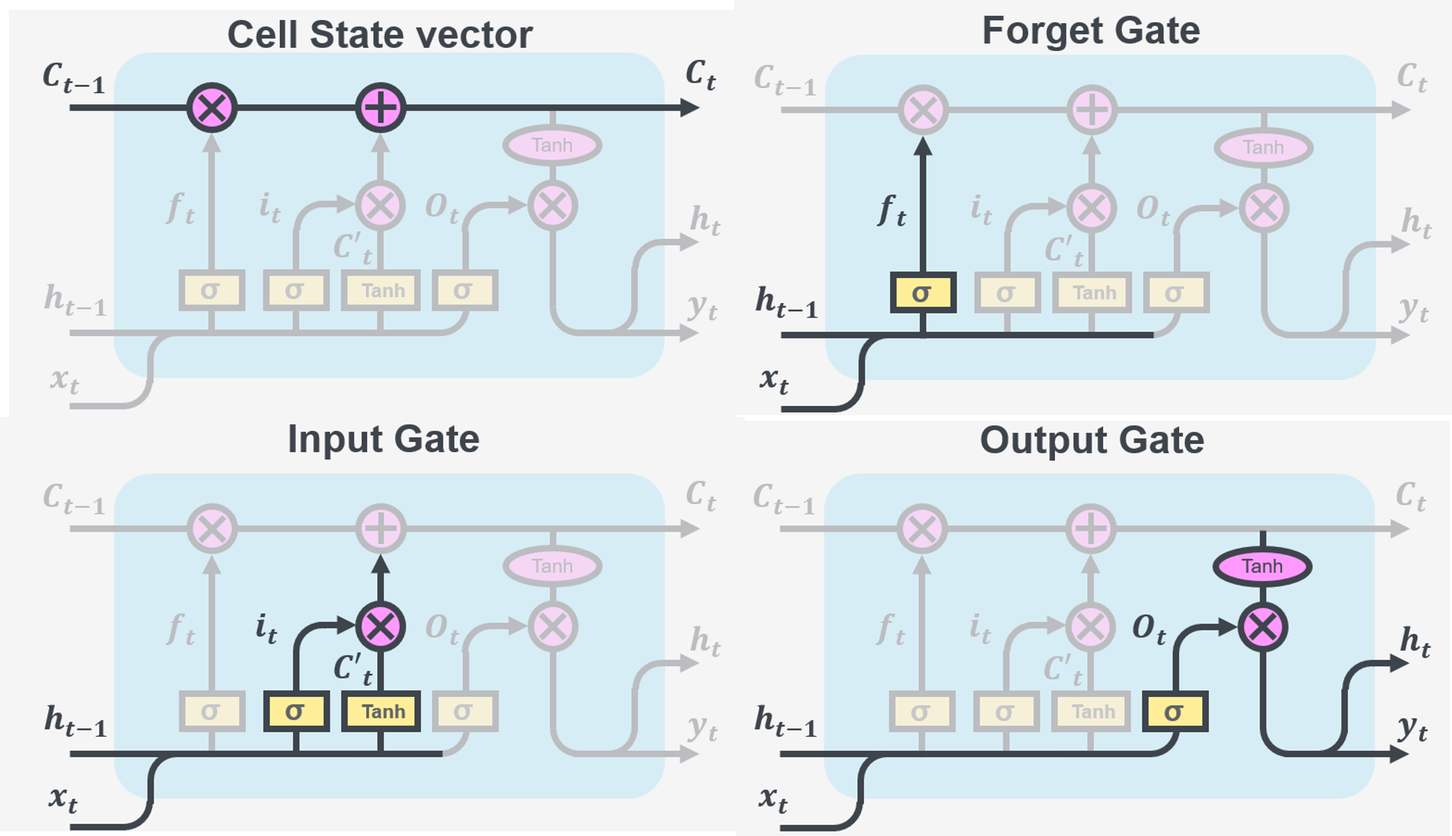
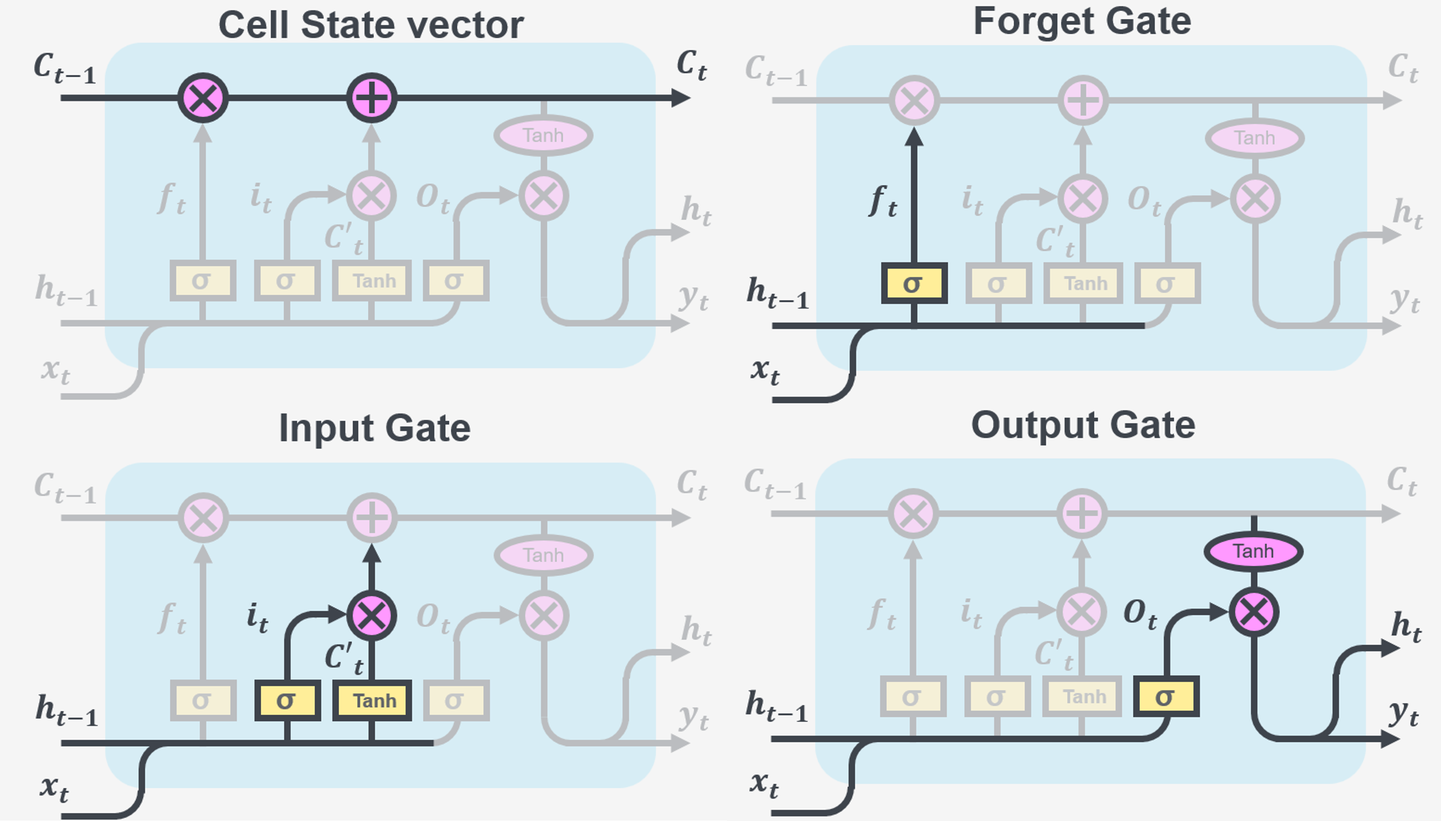
<spellcheck final adds>

diff --git a/_layouts/single.html b/_layouts/single.html
@@ -14,15 +14,17 @@ layout: default
   {% endunless %}
 {% endif %}
 
+
+
 <div id="main" role="main">
   {% include sidebar.html %}
-
+  
   <article class="page" itemscope itemtype="http://schema.org/CreativeWork">
     {% if page.title %}<meta itemprop="headline" content="{{ page.title | markdownify | strip_html | strip_newlines | escape_once }}">{% endif %}
     {% if page.excerpt %}<meta itemprop="description" content="{{ page.excerpt | markdownify | strip_html | strip_newlines | escape_once }}">{% endif %}
     {% if page.date %}<meta itemprop="datePublished" content="{{ page.date | date: "%B %d, %Y" }}">{% endif %}
     {% if page.modified %}<meta itemprop="dateModified" content="{{ page.modified | date: "%B %d, %Y" }}">{% endif %}
-
+    
     <div class="page__inner-wrap">
       {% unless page.header.overlay_color or page.header.overlay_image %}
         <header>

diff --git a/_posts/2012-08-14-blog-post-1.md b/_posts/2012-08-14-blog-post-1.md
@@ -1,32 +1,33 @@
 ---
-title: 'A Long Short-Term Memory Network for Plasma Diagnosis from Langmuir Probe Data'
+title: 'A Review: A Long Short-Term Memory Network for Plasma Diagnosis from Langmuir Probe Data'
 date: 2022-11-03
 permalink: /posts/2022/11/LSTM-NN-Langmuir/
 layout: single
 tags:
-  - Fusion Plamsa
+  - Fusion Plasma
   - Langmuir Probes
   - Machine Learning
 toc: true
-toc_label: "My Table of Contents"
-toc_icon: "cog"
+toclabel: "My Table of Contents"
+tocicon: "cog"
 toc_stickey: true
 ---
 
 # Introduction
 
-Welcome to my latest blog post where we will be discussing the recent paper "A Long Short-Term Memory Network for Plasma Diagnosis from Langmuir Probe Data", found [Here](https://www.mdpi.com/1424-8220/22/11/4281 "A Long Short-Term Memory Network for Plasma Diagnosis from Langmuir Probe Data"). This paper, published in the Journal of Nuclear Materials and Energy, presents a new approach to diagnosing plasma using a Long Short-Term Memory (LSTM) network. As fusion physicists, I am always excited to see new techniques and ideas being applied to the field of plasma physics. In this post, I will provide a brief overview of the paper, explain the LSTM network, and give some thoughts on the potential impact of this research on the fusion field. So, let's dive in!
+Welcome to my latest blog post where we will be discussing the recent paper "A Long Short-Term Memory Network for Plasma Diagnosis from Langmuir Probe Data", found [Here](https://www.mdpi.com/1424-8220/22/11/4281 "A Long Short-Term Memory Network for Plasma Diagnosis from Langmuir Probe Data"). This paper, published in the Journal of Nuclear Materials and Energy, presents a new approach to diagnosing plasma using a Long Short-Term Memory (LSTM) network. As fusion physicists, I am always excited to see new techniques and ideas being applied to the field of plasma physics. In this post, I will provide an overview of the paper, explain what an LSTM network is and how it works, and give some thoughts on the potential impact of this research on the fusion field. So, let's dive in!
 
 ## Fusion plasmas… why are they important?
 
 The development of fusion plasma devices has rapidly increased in the last 20 years, bringing us ever closer to green, sustainable energy. Plasmas as the fourth state of matter where ions and electrons are unbound and move freely from one another at high temperatures. These high temperatures and pressures maintained by various heating techniques and supercooled magnets cause nuclei to fuse, generating massive amounts of energy. However, maintaining a fusion plasma is no easy task. 
-Safe ignition, maintenance and dispersion of plasma discharges are heavily reliant on the capabilities of the diagnostic sensors. As the majority of small to medum sized reactors only produce plasmas for 0.001-1 second, diagnostics must be fast, responsicve and accurate to provide live feedback control or accurate post-plasma diagnostics. Plasma parameters such as electron temperature, density and potential are calculated from data collected by these diagnostic sensors. These parameters can then be used to determine the form of the plasma, weather the plasma is stable or tending to instability e.t.c..  
+Safe ignition, maintenance and dispersion of plasma discharges are heavily reliant on the capabilities of the diagnostic sensors. As the majority of small to medium sized reactors only produce plasmas for 0.001-1 second, diagnostics must be fast, responsive and accurate to provide live feedback control or accurate post-plasma diagnostics. Plasma parameters such as electron temperature, density and potential are calculated from data collected by these diagnostic sensors. These parameters can then be used to determine the form of the plasma, weather the plasma is stable or tending to instability e.t.c..  
 
 Conventional diagnostic techniques for extracting the plasma parameters, such as the Langmuir probe, involve active and indirect measure of the plasma. In this case, the plasma is changed in a small area by the diagnostic to probe to obtain the characteristics from it. However, these types of measurement usually require a certain amount of offline-computation, hence cannot be used as live diagnostic tools. Additionally, external factors can greatly affect the accuracy of the plasma measurements.
-In this paper aims to create a more universal method of plasma diagnosis by speeding up parameter calculation and celiminating the influence of external factors using long short-term memory (LSTM) neural networks (NN). 
+In this paper aims to create a more universal method of plasma diagnosis by speeding up parameter calculation and eliminating the influence of external factors using long short-term memory (LSTM) neural networks (NN). 
 
+<a id="Langmuir_math"></a>
 ## The Langmuir probe and how it works
-Langmuir probes, proposed in 1926, are a commonly used diagnostic tool in plasma physics research. They essentially work by inserting a small probe into the plasma and measuring the electrical characteristics of the plasma at that point. The probe has a small wire or needle that is oscillated between being positively and negatively charged, which is inserted into the plasma. The probe measures the current, I flowing to the wire by collecting electrons from the plasma and therefore the voltage, V across it. From these measurements, we can deduce important properties of the plasma from the I-V characterisitcs, such as the electron temperature, $T_e$ and density, $n_e$. One of the great things about Langmuir probes is that they can be used to make measurements in a wide range of plasmas, from fusion plasmas to the plasma in stars. They are a simple yet powerful tool that can provide a lot of information about the plasma being studied [[1]](https://aapt.scitation.org/doi/10.1119/1.2772282 "Understanding Langmuir probe current-voltage characteristics").
+Langmuir probes, proposed in 1926, are a commonly used diagnostic tool in plasma physics research. They essentially work by inserting a small probe into the plasma and measuring the electrical characteristics of the plasma at that point. The probe has a small wire or needle that is oscillated between being positively and negatively charged, which is inserted into the plasma. The electrons in the plasma are attracted to the positively charged probe and flow toward it, creating an electric current. By measuring the current as a function of the voltage applied to the probe, we can deduce important properties of the plasma from the I-V characteristics, such as the electron temperature, $T_e$ and density, $n_e$. One of the great things about Langmuir probes is that they can be used to make measurements in a wide range of plasmas, from fusion plasmas to the plasma in stars. They are a simple yet powerful tool that can provide a lot of information about the plasma being studied [[1]](https://aapt.scitation.org/doi/10.1119/1.2772282 "Understanding Langmuir probe current-voltage characteristics").
 
 <div style="text-align:center">
     <a href="https://davidpace.com/example-of-langmuir-probe-analysis/">
@@ -36,11 +37,11 @@ Langmuir probes, proposed in 1926, are a commonly used diagnostic tool in plasma
     <i>Figure 1: Circuit diagram of the Langmuir probe setup</i>
 </div>
 
-The aim of the paper is to determine the characterisitcs electron temperature, $T_e$ and density, $n_e$. These are found using therotical models based of a perfect plasma and fitting them to the data optained from the probe. The perfect data curve from a Langmuir probe would look a little like an 'S' like that in **fig. 2**. For those interested in how Langmuir's method finds the characterisitcs, we go into a little more mathematical detail here, otherwise feel free to skip to the next section [Problems with measurements](#Problems-with-measurements).
+The aim of the paper is to determine the characteristics $n_e$ and $T_e$. These are found using theoretical models based of a perfect plasma and fitting them to the data obtained from the probe. The perfect data curve from a Langmuir probe would look a little like an 'S' like that in [fig. 2](#CharsIV). For those interested in how Langmuir's method finds the characteristics, we go into a little more mathematical detail here, otherwise feel free to skip to the next section [Problems with measurements](#Problems-with-measurements).
 
 I-V characteristic is obtained by sweeping a bias voltage (VB) from negative to positive potentials. From these curves the plasma characteristics are calculated from specific features of the curve:
 
-<div style="text-align:center">
+<div style="text-align:center" id="CharsIV">
     <a href="https://aapt.scitation.org/doi/10.1119/1.2772282">
         <img src="/images/Langmuir_chars.png" alt="Langmuir_chars" style="width:100%;height:100%">
     </a>
@@ -48,10 +49,10 @@ I-V characteristic is obtained by sweeping a bias voltage (VB) from negative to 
     <i>Figure 2: Langmuir probe I-V characteristic</i>
 </div>
 
-The total current in **fig. 2** is represented by the black curve and the ionic and electron current are represented by the blue and red curves respectively. Different features of the black I-V characterisci are used to find $n_e$ and $T_e$:
+The total current in [fig. 2](#CharsIV) is represented by the black curve and the ionic and electron current are represented by the blue and red curves respectively. Different features of the black I-V characteristic are used to find $n_e$ and $T_e$:
   * Floating potential, $V_f$: The point where the total voltage of the probe changes sign
-  * Plasma potential, $V_p$: The point where the curve bends to the right (i.e. Where all the electrons are relpelled)
-  * Electron temperature, $T_e$: The gradient of the middle region **labled in blue on fig. 2** is $=e/{(k_bT_e)}$
+  * Plasma potential, $V_p$: The point where the curve bends to the right (i.e. Where all the electrons are repelled)
+  * Electron temperature, $T_e$: The gradient of the middle region labeled in blue on [fig. 2](#CharsIV) is $=e/{(k_bT_e)}$
 
 Knowing all these values allows us to apply the following relations to determine $n_e$ using,
 
@@ -59,15 +60,15 @@ $$ I_{sat} = A_se^{-\frac{1}{2}}qn_e\sqrt{\frac{K_BT_e}{M}} $$
 
 $$ n_e = \frac{I_{sat} }{qA_se^{-\frac{1}{2}}}\sqrt{\frac{M}{K_BT_e}} $$
 
-Where the new terms here are ion mass, $M$, Aarea of the probe, $A_s$ and the physical constants, $K_B$ = Boltzmann's Constant and $e$ = electric charge.
+Where the new terms here are ion mass, $M$, area of the probe, $A_s$ and the physical constants, $K_B$ = Boltzmann's Constant and $e$ = electric charge.
 
-These Characteristics are obtained post-processing and curve fitting of the data collected during experimentation. Thes relations are purely based on theory, and change depending on the probe geometry, conductivity, plasma type, e.t.c... 
+These Characteristics are obtained post-processing and curve fitting of the data collected during experimentation. These relations are purely based on theory, and change depending on the probe geometry, conductivity, plasma type, e.t.c... 
 
 <a id="Problems-with-measurements"></a>
 ## Problems with measurements
- Theoretical models are selten perfect and the case of Langmuir probes is no different. The I-V characteristic drastically deviates from the standard from if the surface layer of the probe is contaminated or if the probe is placed in a low-density plasma. The characteritic bends in the curve are no longer as obvious, and as the voltage sweeps from negative to positve, the curves no longer opverlap. This can make the gradient value very hard to find. A bad curve example can be seen in **Fig. 3**. 
+ Theoretical models are seldom perfect and the case of Langmuir probes is no different. The I-V characteristic drastically deviates from the standard from if the surface layer of the probe is contaminated or if the probe is placed in a low-density plasma. The characteristic bends in the curve are no longer as obvious, and as the voltage sweeps from negative to positive, the curves no longer overlap. This can make the gradient value very hard to find. A bad curve example can be seen in [fig. 3](#cont_probe). 
 
-<div style="text-align:center">
+<div style="text-align:center" id = "cont_probe">
     <a href="https://www.mdpi.com/1424-8220/22/11/4281">
         <img src="/images/contaminated.png" alt="Langmuir_contam" style="width:60%;height:60%">
     </a>
@@ -75,22 +76,23 @@ These Characteristics are obtained post-processing and curve fitting of the data
     <i>Figure 3: A contaminated probe's I-V characteristic</i>
 </div>
 
-Faced with these issues, traditional fitting methods can be even more of a challenge. Different levels of contamination and low data aquisition of low-density plasmas leads to a lot of noise in the data. This requires a lot of computational resources and can be very slow, which isn't ideal when you're trying to analyze data in real-time. So, the goal of this research was to develop a new method for diagnosing plasmas using Langmuir probe data that is faster, more accurate and doesn't suffer from the problem of probe contamination and low-density plasmas. And, it looks like they succeeded!
+Faced with these issues, traditional fitting methods can be even more of a challenge. Different levels of contamination and low data acquisition of low-density plasmas leads to a lot of noise in the data. This requires a lot of computational resources and can be very slow, which isn't ideal when you're trying to analyze data in real-time. So, the goal of this research was to develop a new method for diagnosing plasmas using Langmuir probe data that is faster, more accurate and doesn't suffer from the problem of probe contamination and low-density plasmas. And, it looks like they succeeded!
 
 
 <div style="text-align:center">
             <img src="/images/NN_structure_graphic.png" alt="NN_graphic" style="width:100%;height:80%">
     <br>
-    <i>Figure 4: The Researchers goal for the input and putput of their network</i>
+    <i>Figure 4: The Researchers goal for the input and output of their network</i>
 </div>
 
 # Machine Learning 
-Predicting $n_e$ and $T_e$ is a simple regression problem and can be resolved with a simple multi-layer perceptron (MLP) network. These MLP networks are relatively easy to use and lightweight, but not suited to characterise messy data that could be affected by multiple factors of varying degrees (such as the level of contamination). Hence, instead of using one-way propagation system in the MLP, they use a neural network structure called long short-term memory network (LSTM). 
+Predicting $n_e$ and $T_e$ is a simple regression problem and can be resolved with a simple multi-layer perceptron (MLP) network. These MLP networks are relatively easy to use and lightweight, but not suited to characterize messy data that could be affected by multiple factors of varying degrees (such as the level of contamination). Hence, instead of using one-way propagation system in the MLP, they use a neural network structure called long short-term memory network (LSTM). 
 
+<a id="LSTM"></a>
 ## LSTM , what is it and how does it work?
 Now hopefully, when I mention Langmuir probes again, you have a general idea of what I’m talking about. This is because we don’t start thinking from scratch. All because we have moved on to the next section, doesn’t mean we forget everything from before. As you read the blog, you understand the context of each section based on the previous sections. You don’t throw away all your knowledge and start thinking from scratch again. There is a certain continuity to our thoughts. 
 
-However,  traditional neural networks can’t do this. Regular neural networks have a hard time understanding sequences of data. They're good at recognizing patterns in a single data point, like identifying a prcure of a cat... as a picture of a cat. But when it comes to understanding something like a sentence or a time series, regular neural networks can struggle. Sequential networks struggle relating previous words in a sentence with the next ones, essentially, forgetting everything every time new information given. Recurrent neural networks (RNN) attempt to solve this by having loops within the network, allowing them to persist. RNNs can be thought of as multiple copies of the same traditional sequential network but every time it runs, information is carried over to the successor. 
+However,  traditional neural networks can’t do this. Regular neural networks have a hard time understanding sequences of data. They're good at recognizing patterns in a single data point, like identifying a picture of a cat... as a picture of a cat. But when it comes to understanding something like a sentence or a time series, regular neural networks can struggle. Sequential networks struggle relating previous words in a sentence with the next ones, essentially, forgetting everything every time new information given. Recurrent neural networks (RNN) attempt to solve this by having loops within the network, allowing them to persist. RNNs can be thought of as multiple copies of the same traditional sequential network but every time it runs, information is carried over to the successor. 
 
 Because of RNN’s ability to remember past information, they have been incredibly successful when applied to tasks such as translation, text generation, speech recognition… and many more. 
 
@@ -105,35 +107,198 @@ That's where LSTMs come in. LSTMS are a special kind of RNN used for any series 
 <div style="text-align:center">
             <img src="/images/operations.png" alt="LSTM_operators" style="width:80%;height:80%">
     <br>
-    <i>Figure 5: A general strucuture for an LSTM cell</i>
+    <i>Figure 5: A general structure for an LSTM cell</i>
 </div>
 
 The diagram above illustrates how information flows through an LSTM network. Each line represents a vector that connects the output of one node, to the input of others. The pink circles represent simple operations like adding vectors together, while the yellow boxes represent layers of the neural network. When lines come together, it means the vectors are being combined, and when a line splits, it means the information is being copied and sent to different parts of the network.
 
 To understand exactly what an LSTM cell is doing with the data, lets break it down into 4 parts.
 
-<div style="text-align:center">
-            <img src="/images/LSTM_breakdown_2x2.png" alt="LSTM_operators" style="width:100%;height:100%">
+<div style="text-align:center" id="LSTM_cell">
+            <img src="/images/cell_breakdown_2x2.png" alt="LSTM_operators" style="width:100%;height:100%">
     <br>
     <i>Figure 6: A breakdown of an LSTM cell</i>
 </div>
 
-The memory part of the LSTM cell is the cell state vector. Information is added or removed to the cell state via the interations with the gates. Gates consisit of two parts: a sigmoid neural network layer and a pointwise multiplication operation. The sigmoid layer is used to decide how much information should be kept or discarded (by assigning a value beteen 0-1), and the pointwise multiplication operation add this information to the cell state.
+The memory part of the LSTM cell is the cell state vector. Information is added or removed to the cell state via the interactions with the gates. Gates consist of two parts: a sigmoid neural network layer and a point-wise multiplication operation. The sigmoid layer is used to decide how much information should be kept or discarded (by assigning a value between 0-1), and the point-wise multiplication operation add this information to the cell state.
 
-The first gate controlls how much information we want to remove from the cell state, hence aptly named the 'forget gate'. It takes the output value $h_{t-1}$ from the previous cell and the new data point $x_t$ and decides how much information from the previous cell is relevent. Combinign that with the trainable weights, $W$ and biases $b$ of that layer results in $f_t$ being passed onto the cell state vector.
-<img src="/images/cell_state_vec.png" alt="alt text" width="50%" height="50%"> $$f_t = (W_f \cdot [h_{t-1},x_t] + b_f) $$
-
-
-Now its time do decide which information from the new data is doing to be passed on to the cell state. This is determined by the 'input gate'. The sigmoid layer chooses what to keep and which need updating and the tanh layer creates the new values for the update.
-
+<div style="text-align:center" id="cell_state">
+            <img src="/images/cell_state_vec.png" alt="alt text" width="80%" height="80%">
+    <br>
+</div>
 
 
+The first gate controls how much information we want to remove from the cell state, hence aptly named the 'forget gate'. It takes the output value $h_{t-1}$ from the previous cell and the new data point $x_t$ and decides how much information from the previous cell is relevant. Combining that with the trainable weights, $W$ and biases $b$ of that layer results in $f_t$ being passed onto the cell state vector. $f_t$ is multiplied by the old cell state, $C_{t-1}$ hence the cell forgets what it has decided to forget and is passed onto the next gate.
+
+<div style="text-align:center" id="forgetGate">
+            <img src="/images/Slide4.JPG" alt="alt text" width="100%" height="100%">
+    <br>
+</div>
+
+Now its time do decide which information from the new data is doing to be passed on to the cell state. This is determined by the 'input gate'. The sigmoid layer chooses what to keep and what needs updating and the tanh layer creates a vector of suggested new values for the update, $C_t'$. Now that we have what needs replacing and what we could be replaced with, again, we update the old cell state, $C_{t-1}$ by $i_t \times C'_t$ to the new cell state $C_t$. This updates the chosen cell haves from the sigmoid layer. 
+<div style="text-align:center" id="input">
+            <img src="/images/Slide5.JPG" alt="alt text" width="100%" height="100%">
+    <br>
+</div>
+
+Finally, we decide what we want to output from the cell, determined by the output gate. The output gate combines the cell input $h_{t-1}$ with a modified copy of the new cell state $C_t$. This means only the important parts of the cell state and previous cell are kept and passed on as the new input to the next cell, $h_t$.This output, $h_t$ is then copied and outputted at $y_t$.
+
+<div style="text-align:center" id="output">
+            <img src="/images/Slide6.JPG" alt="alt text" width="100%" height="100%">
+    <br>
+</div>
+
+These cells can be strung together and are great for time-dependant data and memory tasks. Now we have a better idea of whats going on in the cell, we can look at how the paper applies LSTM networks to the Langmuir probe data.
+
+If you're interested in how LSTMs work in detail and want to know how different types work, I would recommend reading [colah's blog](https://colah.github.io/posts/2015-08-Understanding-LSTMs/).
+{: .notice}
+
+# Experimental setup
+
+## Collecting data
+
+In this experiment, we'll be looking at the effects of humidity on two identical Langmuir probes - one labeled "Pcont" and the other "Pclean." First, we'll leave both probes exposed to a humid atmosphere for more than 24 hours, thus 'contaminating' them. Next, we'll place both probes on a special platform in a plasma vacuum chamber and mark their positions. They are placed the same distance away from the plasma course, so that they will detect the same plasma conditions. 
+
+Then, we'll heat up a filament and fill the chamber with argon gas to create a steady plasma discharge. We'll apply a negative 200V to the Pclean probe for ten minutes to remove any contaminated layer on the probe's surface by heating it and using electrons to bombard it.
+
+ After that, we'll use the platform to move both probes to a central position and collect data on their current and voltage (I-V) characteristics. We'll make sure to collect data on both probes within a one-minute time frame.
+
+Finally, we'll analyze the collected data using both traditional diagnostic methods and the LSTM network. This will allow us to compare the results and see how well the advanced technique performs.
+
+<div style="text-align:center" id="figure7">
+            <img src="/images/exp_setup.png" alt="alt text" width="70%" height="70%"> 
+    <br>
+    <i>Figure 7: Diagram of the experimental setup</i>
+</div>
+
+## Why do we actually need LSTM
+
+When we apply these traditional fitting methods to contaminated probe data, we usually get very poor results. The methods that are applied to the clean probe data are the same applied to the contaminated probe and then fitting parameters are iteratively added to try and recover the correct result. Essentially, we 'remember' the clean probe data and use traditional fitting to get our $n_e$ and $T_e$ and then (under the same plasma conditions) try to make the contaminated probe data fit the same $n_e$ and $T_e$ by tweaking the math we saw in section: [The Langmuir probe and how it works](#Langmuir_math). Additionally we don't actually know by how much the probe is contaminated, so each measurement need to be treated separately to try and calculate a meaningful result.
+
+The LSTM network does exactly the same thing: by remembering the result of the clean probe in the same measurement, it is able to find the relation between the contaminated probe data and the clean probe data, thus predicting the temperature, $T_e$ and density, $n_e$. As the network can learn what a clean vs.contaminated probe's I-V characteristic looks like, when they gave it a new contaminated probe's data, it related it to a clean probes data under the same conditions and give out more accurate $n_e$ and $T_e$ predictions. This gives a more general model and each fit is done automatically rather than manually. 
+
+## Network structure
+
+Now we move onto how the network in this paper is trained and how they went about making sure the LSTM model was best fit to the data. Using two blocks of the LSTM cells from section [LSTM, what is it and how does it work?](#LSTM_cell), a two layer LSTM model is built. However, using a two-layer LSTM network can sometimes cause something called "overfitting," which means the model is too complex for the data it's working with. It picks up on small data patterns such as noise rather than the overall shape of the data (which is what we know is used to calculate the $T_e$ and $n_e$). To avoid this, we're adding something called a "random deactivation layer" after each layer of the LSTM network.
+
+A random deactivation layer helps to prevent overfitting in the LSTM network by randomly deactivating or 'dropping out' some of the neurons during training. This serves to reduce the complexity of the network and make it less likely to memorize the training data and the small details that the network could pick up on as patterns. 
+
+The idea behind dropout is that it prevents neurons from co-adapting too much. In other words, it helps to break the inter-dependency among neurons, which makes the model less sensitive to the specific weights of neurons. By randomly dropping out neurons during training, we force the network to find different ways to solve the problem, look for more general correlations in the data, and increase robustness, which helps to reduce overfitting. This results in a more generalizable model, which is better able to generalize to unseen data.
+
+Finally, they added something called a "fully connected layer" to the network, which will help the network output values that match up with the actual data. They compared the output values of the network to the actual data, and use a specific algorithm called "Adam optimizer" to update and improve the model's parameters.
+
+To summarise, they used an this model structure seen [below](#figure8) to try to find the best way to improve the model without overfitting the data.
+
+<div style="text-align:center" id="figure8">
+            <img src="/images/LSTM_full_network.png" alt="alt text" width="80%" height="50%"> 
+    <br>
+    <i>Figure 8: Diagram of the network setup</i>
+</div>
+
+# Results 
+## Data
+After processing all the data using traditional methods, they obtained a dataset of [5186](#figure8) groups. $n_e$ ranges from 1012 to 1014 $𝑚^{−3}$, $T_e$ ranges from 19,000 to 60,000 K and current ranges 70 A, 80 A, and 85 A. Changing the current to lower values, decreases the density of the plasma. So, they created a large data set in a broad parameter space.
+
+<div style="text-align:center" id="figure9">
+            <img src="/images/data.png" alt="alt text" width="80%" height="90%"> 
+    <br>
+    <i>Figure 9: All data obtained using traditional processing methods</i>
+</div>
+
+This data set was split into 4150 training sets and 1036 test sets. 
+
+## Optimising hyperparameters  
+
+When working with a neural network, there are many different parameters you can adjust to improve the performance of the model. These can include things like the number of neurons in each layer, the number of layers, the learning rate and so on... In most cases with neural networks, this training is mostly a trial and error as he process of finding the optimal hyperparameters for a neural network can be challenging as it depends on the complexity of the problem, the size of the dataset, and the architecture of the network. In this specific case, by adjusting these parameters, they were able to fine-tune the model to give the best possible predictions. The researchers are using the accuracy of the prediction of $n_e$ to adjust these parameters and find the best structure for their neural network.
+
+### Evaluation indicators
+When it comes to training a machine learning model, it's important to have a way to measure how well the model is performing. This is where evaluation indicators come in. Evaluation indicators are metrics used to measure the performance of a model, and they can help you understand how well the model is making predictions.
+
+In this specific case, the researchers are using two different evaluation indicators: the mean square error (MSE) loss function and the mean absolute percentage error (MAPE).
+
+The MSE loss function is a common metric used in multi-output regression prediction models. It calculates the difference between the predicted value and the actual value, and it's usually used to measure the accuracy of the model during training. It's sensitive to large differences between the predicted and actual values hence, during training the model will change its parameters more if the MSE is large.
+
+After the model has been trained, the researchers are using the MAPE metric to evaluate the performance of the model. The MAPE calculates the percentage difference between the predicted value and the actual value. A percentage error helps to give a more intuitive understanding of how well the model is performing.
+
+### Neuron density
+The number of neurons in a layer can drastically change how your network learns. Too may neurons and we may over-fit the data and too few and the neural network may not pick up on the patterns in the data. The researchers varied the number of neurons tested for the networks predictive accuracy. Among them, the network with the 50R4/4/1 structure can achieve a higher accuracy faster. This can be seen [below](#figure10) where the 50R4/4/1 clearly peaks in accuracy well before the other network structures. 
+
+<div style="text-align:center" id="figure10">
+            <img src="/images/accuracy_epoch.png" alt="alt text" width="90%" height="90%"> 
+    <br>
+    <i>Figure 10: Different model structures tested for prediction accuracy of $n_e$. </i>
+</div>
+
+50R4/4/1 in the researchers notes means: 50 $\times$ 4 = 200 neurons in the first layer, 50 $\times$ 4 = 200 neurons in the second layer, and 50 $\times$ 1 = 50 neurons in the Full connection layer.
+
+### Learning rate
+
+When it comes to training a neural network, one of the most important things to consider is the learning rate. The learning rate is a hyperparameter that controls the step size at which the optimizer makes updates to the model's weights during training. In other words, it determines how fast the model learns. Imagine you're on a hill and you want to find the best path to take to reach the bottom. If you take too large steps you may miss detail along the way, if you take too small steps, it may take too long to reach the bottom. This works the same way for the optimiser. A high learning rate means that the optimizer is making big jumps in the weight space and can cause the model to converge too quickly to a suboptimal solution or diverge. On the other hand, a low learning rate means that the optimizer is making small steps and can cause the model to converge too slowly to the optimal solution. Finding the sweet spot between these two extremes is crucial to making sure the model is learning efficiently and effectively. In this case, the researchers used various fixed learning rates to see which worked best, of which 0.00001 was the best with lowest RMSE and MAPE. 
 
 
+<div style="text-align:center" id="figure11">
+            <img src="/images/learning_rate.png" alt="alt text" width="100%" height="100%"> 
+    <br>
+    <i>Figure 11: Testing for different learning rates. </i>
+</div>
+
+## Loss and Accuracy
+
+The loss and accuracy lots for both $n_e$ and $T_e$ seen below in [fig. 12](#figure12) show that the researchers were able to achieve a 95% accuracy within just 50 epochs. 
+<div style="text-align:center" id="figure12">
+            <img src="/images/loss_ne_te.png" alt="alt text" width="100%" height="100%"> 
+    <br>
+    <i>Figure 12: Looking at the loss and accuracy of predicting $n_e$ and $T_e$. </i>
+</div>
+They state that they optimised the network hyperparameter structure from just the accuracy of the prediction of $n_e$. I question their choice of method here. Although they are training the model based on the accurate prediction of more than one variable, optimising the structure based on one makes it seem like they're leaving the prediction of $T_e$ down to a lucky guess, rather than a network that models the whole system. Although you can see a relatively high prediction for both $n_e$ and $T_e$, the prediction accuracy for $T_e$ is a few percent lower and the loss function does not converge as well as for $n_e$.
+
+The researchers suggest that the benefit of using an LSTM network for plasma diagnosis lies in the lack of coupling between the acquisition of Ne and Te. This eliminates the potential impact of significant errors in Te on the result of Ne, which is a common issue in traditional diagnostic methods. I would disagree with this statement. With a network structure optimised to predict only only one of the two variables better, the network may be using the prediction of $n_e$ to influence its prediction of $T_e$ hence their prediction may not necessarily be completely decoupled. 
+
+## Prediction 
+
+Using the now trained and tested LSTM network the researchers predict $n_e$ and $T_e$ from contaminated probe data and see if they can eliminate the effect contamination from plasma diagnosis data. Using the now trained and tested LSTM network the researchers predict $n_e$ and $T_e$ from contaminated probe data and see if they can eliminate the effect contamination from plasma diagnosis data. In [fig. 13](#figure13), we see the comparison of the characteristics calculated using classical methods from the clean probe (Ground Truth) in blue, the contaminated probe in grey, and the LSTM prediction in red. Looking at the trends in the data, the contaminated probe seems to under-predict $n_e$. The LSTM almost finds a middle ground between the clean and contaminated probe data, raising the value to $n_e$ to best patch that of the clean probe. Hence, when we compare the error between classical methods and the LSTM model for finding $n_e$ the error decreases by 1/3! 
+
+<div style="text-align:center" id="figure13">
+            <img src="/images/comp_ne_te.png" alt="alt text" width="100%" height="100%"> 
+    <br>
+    <i>Figure 13: Comparing the clean, contaminated and predicted data from the Langmuir probes for $n_e$ and $T_e$. </i>
+</div>
+
+This error decrease is not as large for $T_e$. The error between classical methods on the contaminated probe and the LSTM network does decrease by 1/4, however when we look at the graph for $T_e$ we can see that the LSTM is not exactly finding the right pattern. Opposite to the prediction of $n_e$, the effect of contamination on the classical calculation of $T_e$ results in an overestimation. The LSTM seems to over-predict the $T_e$ value, not quite matching the trend of the clean probe data. I can only assume this is because the hyperparameters of the network were optimised on the prediction accuracy of $n_e$, not $T_e$.
+
+In the case of under-dense plasma, the researchers make the the argument that inaccuracy of traditional methods and the the small amount of data in the low density region resulted in low prediction accuracy of the low density region by the LSTM. This is because the calculation process of $T_e$ requires logarithmic fitting of the electron retardation region of the I-V characteristic curve, which can be difficult to achieve in under-dense plasmas, hence the large amount of noise in the classically calculated $T_e$. The limitation of these traditional methods in turn, makes it difficult to use the data to train and predict from the LSTM network. As seen [below](#figure14), both the prediction of $n_e$ and $T_e$ at low density (70A) is not as accurate as higher density, especially for $T_e$. The low prediction accuracy of $T_e$ could not only be due to inaccurate traditional fitting methods, but also because the network's optimal structure was built to optimise $n_e$ prediction. 
 
 
+<div style="text-align:center" id="figure14">
+            <img src="/images/lowdensity.png" alt="alt text" width="100%" height="100%"> 
+    <br>
+    <i>Figure 14: Comparing $n_e$ and $T_e$ prediction in low and high density plasmas. </i>
+</div>
 
 
+# Conclusions
 
+In conclusion, the use of an LSTM network proved to be an effective method for eliminating contamination and improving the accuracy of plasma diagnoses. By removing the effect of contamination on the probe data, researchers can receive more reliable results and gain a deeper understanding of the plasma's properties, even when the probe is contaminated. The LSTM method only needed 10% of the data points for accurate LSTM $n_e$ and $T_e$ prediction when compared to traditional methods. This is a huge advantage! Less data means measurements can be made for less time and overall more measurements can be made without compromising on the accuracy of the calculated plasma characteristics. 
 
+When predicting $n_e$ and $T_e$ for under-dense plasmas, the researchers argue that not only are traditional methods inaccurate but also there is a significant lack of data in this region to efficiently train the network. Nevertheless, their model performed well at normal density. 
 
+# Review
+
+Overall, the researchers have created a new way of predicting plasma characteristics accurately and efficiently. However, in my opinion (and theirs too), there are some improvements that could be made to better predict $T_e$. Optimising the hyperparameters of the network based on the accuracy of both $n_e$ and $T_e$ or another metric such as the MAE would be better fit to a multi-continuous-output problem. 
+
+Although the researchers made the argument that using an LSTM network essentially decouples the prediction of $n_e$ and $T_e$, reducing the error usually propagated through the classical fitting model, I would argue that the LSTM network would be able to find this coupling in the pattern of the data and still cause exactly the same problem. As the network is more or less a black box to someone who doesn't have access to the code, I cannot back this argument with data, but neither have the researchers. 
+
+The prediction in under-dense plasma, in my opinion should have been made by a separate model specifically trained for under-dense plasma. The relations between clean and contaminated probe data and under-dense plasma together cover an extremely broad parameter space. Especially in the case of under-dense plasma the probes are more vulnerable to sheath and edge charge effects, which effect the data differently to the contamination problem. In addition, the researchers do not separate the prediction of clean and contaminated probes for under-dense plasma. Here it is difficult to tell weather there is an improvement to the classical model compared to the LSTM model. I would suggest separating the two problems, and use deep neural networks to predict parameters at low density without contamination. Here an LSTM would not be needed but perhaps better model can be found to obtain $n_e$ and $T_e$ under low density conditions. 
+
+Finally, an interesting addition to this study could be to add a prediction of the level of contamination to the network. Contamination effects the shape of the data and that effect could be measured. 
+
+# Acknowledgments
+
+I would just like to say thank you to both Mathias Niepert  and Mario Kalimuthu at the University of Stuttgart for running this seminar on machine learning in the sciences. Their course has been very useful to approach ML in a more practical and enjoyable way. Special thanks to Mario for helping me get set up with Markdown and Git!   
+
+*[LSTM]: Long Short-Term Memory
+*[$n_e$]: Plasma Density 
+*[$T_e$]: Plasma Temperature 
+*[MSE]:  mean square error
+*[MAPE]: mean absolute percentage error 
+*[NN]: Neural Network 

diff --git a/_pages/cv.md b/_pages/cv.md
@@ -12,7 +12,9 @@ redirect_from:
 Education
 ======
 * B.S. in Physics (with international studies), University of Birmingham, UK 2021
+  * Specialising in nuclear physics and nuclear medicine
 * M.S. **M1** European Master of Science in Nuclear Fusion and Engineering Physics, Universidad Carlos III de Madrid (UC3) or Universidad Complutense de Madrid (UCM), Spain, 2022
+  * Labratory projects working on the TJ-2 stellerator, numerical simulations and materials for nuclear reactors
 * M.S. **M2** European Master of Science in Nuclear Fusion and Engineering Physics, Universität Stuttgart, Germany, 2023 (Expected)
 
 Work experience
@@ -50,9 +52,9 @@ Publications
     {% include archive-single-cv.html %}
   {% endfor %}</ul>
   
-Talks
+Blogs
 ======
-  <ul>{% for post in site.talks %}
+  <ul>{% for post in site.posts %}
     {% include archive-single-talk-cv.html %}
   {% endfor %}</ul>
   
